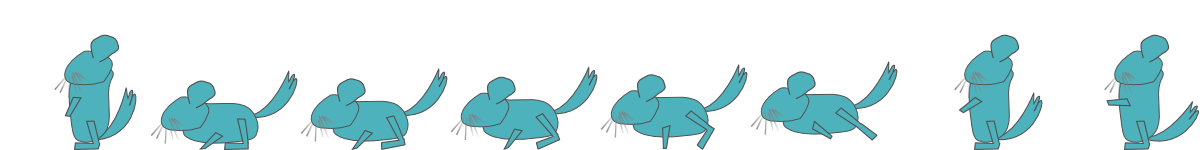
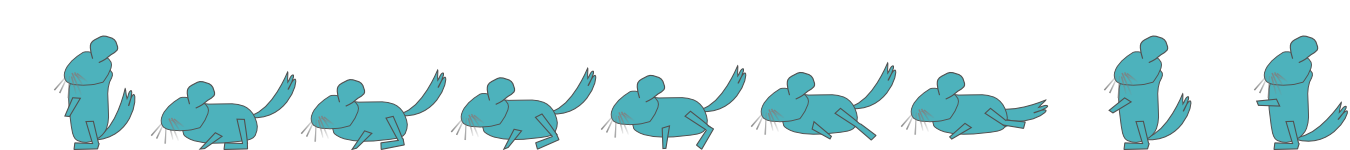
add animation frame for 'flight' action

Changed region(s): [[0.0308, 0.2133, 0.8942, 1.0], [0.925, 0.24, 1.0, 1.0]]

diff --git a/main.js b/main.js
@@ -156,7 +156,7 @@ var manager = (function(){
             this.ball = ball;
         },
         firstObjective: function() {
-            this.setObjective( objectives[0] );
+            this.setObjective( objectives[5] );
         },
         nextObjective: function( objective ) {
             var next = objectives[ objectives.indexOf(objective)+1 ];
@@ -598,7 +598,7 @@ var assets = (function() {
         {
             name: "player",
             images: ["assets/chin.png"],
-            frames: {count:8, width:150, height:150,regX:75,regY:110},
+            frames: {count:9, width:150, height:150,regX:75,regY:110},
             animations: {
                 stand:  {frames:[0], next:false, frequency:1},
                 land:   {frames:[1], next:false, frequency:1},
@@ -607,7 +607,8 @@ var assets = (function() {
                 step2:  {frames:[3,4,3,2,1], next:"still", frequency:3 },
                 step3:  {frames:[3,5,5,3,2], next:"still", frequency:1 },
                 jump:   {frames:[4,5,5,5,3,2,1], next:false, frequency:2},
-                use:    {frames:[6,7], next:"stand", frequency:5},
+                fly:    {frames:[6], next:false, frequency:3},
+                use:    {frames:[7,8], next:"stand", frequency:5},
             }
         },
         {
@@ -669,8 +670,14 @@ var playspace = (function() {
     return {
         layers: {},
         markers: [],
+        playerArticles: [],
         container: new Container,
         initialize: function() {},
+        addPlayerArticle: function(entity) {
+            this.playerArticles.push(entity)
+            var playerIndex = this.container.getChildIndex(this.player.skin);
+            this.container.addChild(entity.skin, playerIndex);
+        },
         addPlayer: function(entity) {
             this.player = entity;
             this.container.addChild(this.player.skin);
@@ -854,6 +861,7 @@ var ball = (function() {
 var player = (function() {
 	"use strict";
 	return {
+        itemSkin: undefined,
 		skin: undefined,
         body: undefined,
         impulse: function(direction, rate, max) {
@@ -1001,7 +1009,7 @@ var main = (function () {
                 audio.soundOn(1);
                 player.actionFlight();
                 player.skin.gotoAndPlay("fly");
-                trails.addMessage(player.body, "nice!");
+                trails.addMessage(player.body, "super!");
                 break;
             case "STAND":
                 actionTime.expiration = 15;
